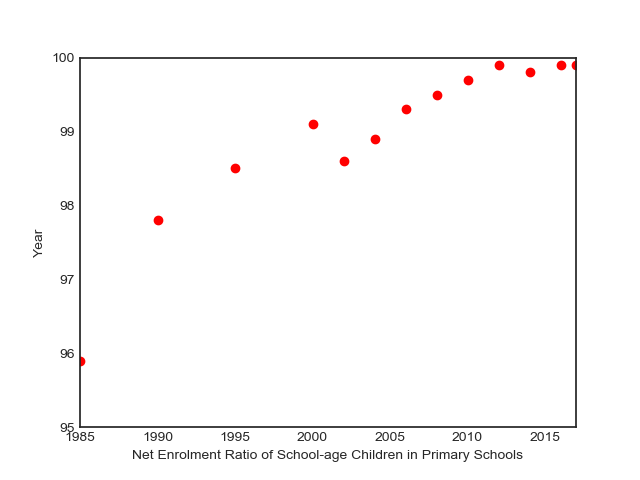
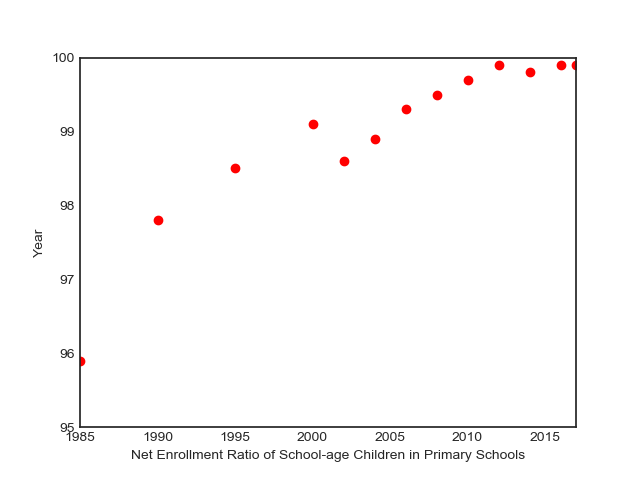
revised typo

Changed region(s): [[0.1875, 0.9375, 0.8125, 0.9688]]

diff --git a/presentations/plots/edu_cross_compare/plot.py b/presentations/plots/edu_cross_compare/plot.py
@@ -5,7 +5,7 @@ import numpy as np
 plt.plot([1985, 1990, 1995, 2000, 2002, 2004, 2006, 2008, 2010, 2012, 2014, 2016, 2017], [95.9, 97.8, 98.5, 99.1, 98.6, 98.9, 99.3, 99.5, 99.7, 99.9, 99.8, 99.9, 99.9], 'ro')
 plt.axis([1985, 2017, 95, 100])
 
-plt.xlabel('Net Enrolment Ratio of School-age Children in Primary Schools')
+plt.xlabel('Net Enrollment Ratio of School-age Children in Primary Schools')
 plt.ylabel('Year')
 
 plt.savefig('cnelementry.png')
